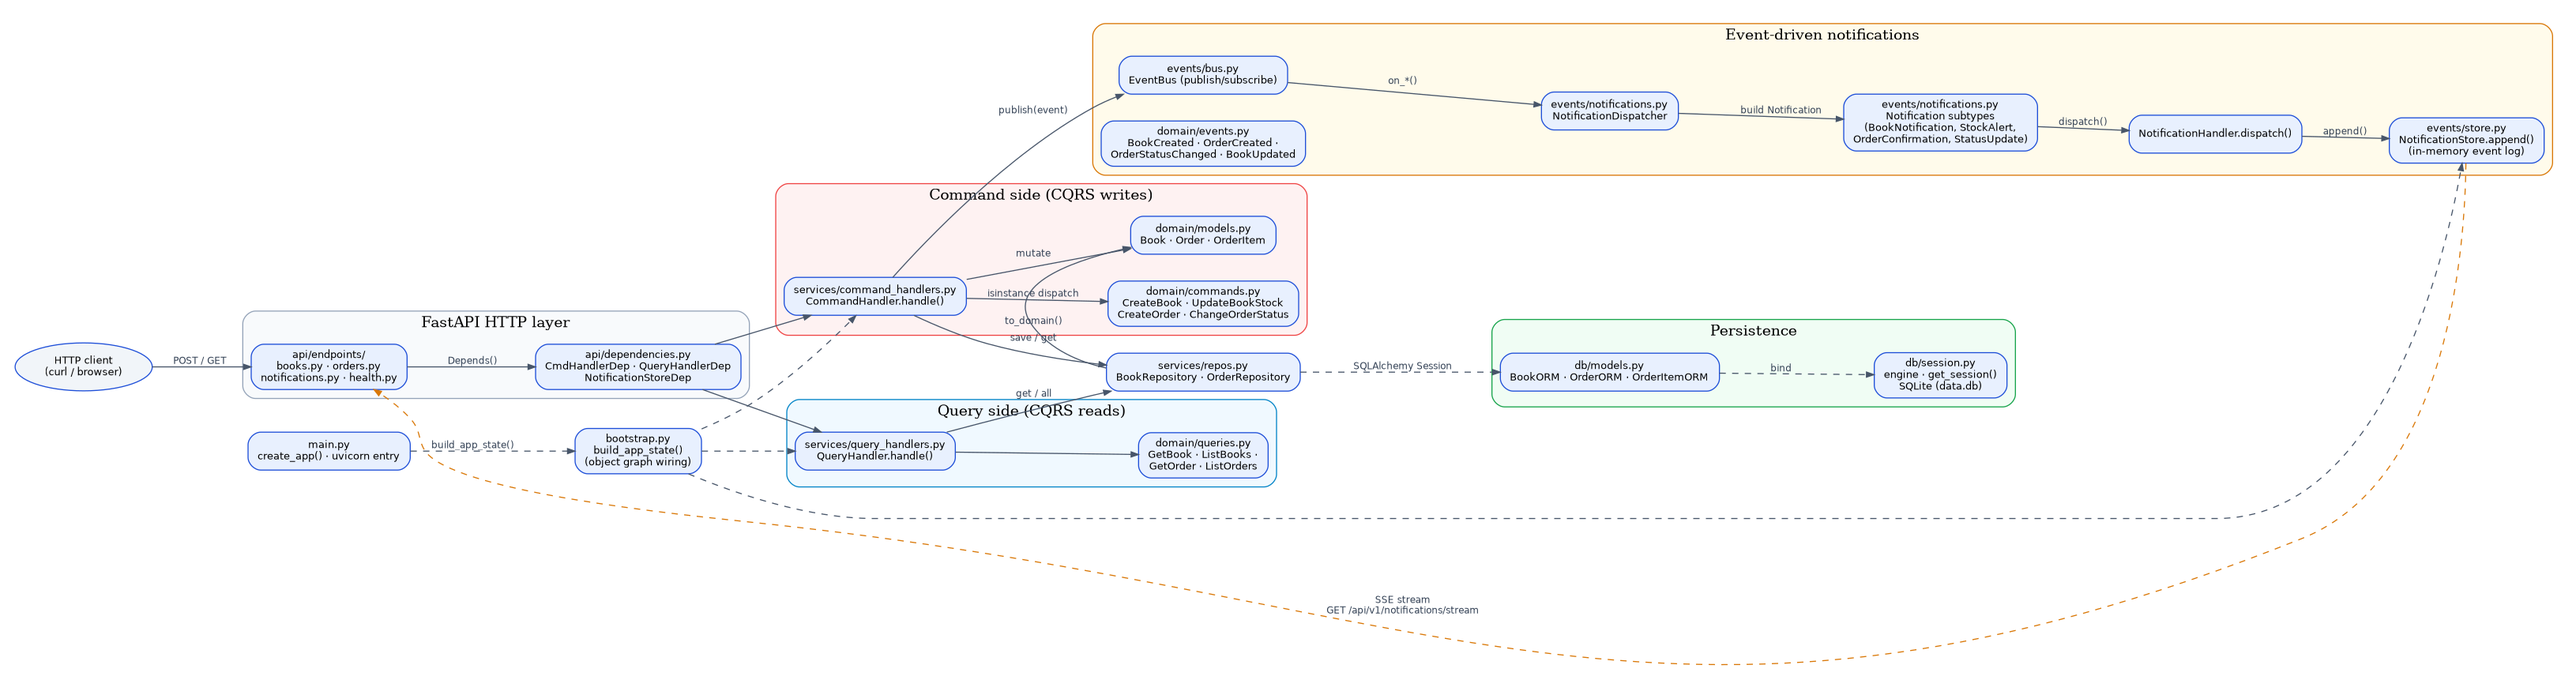
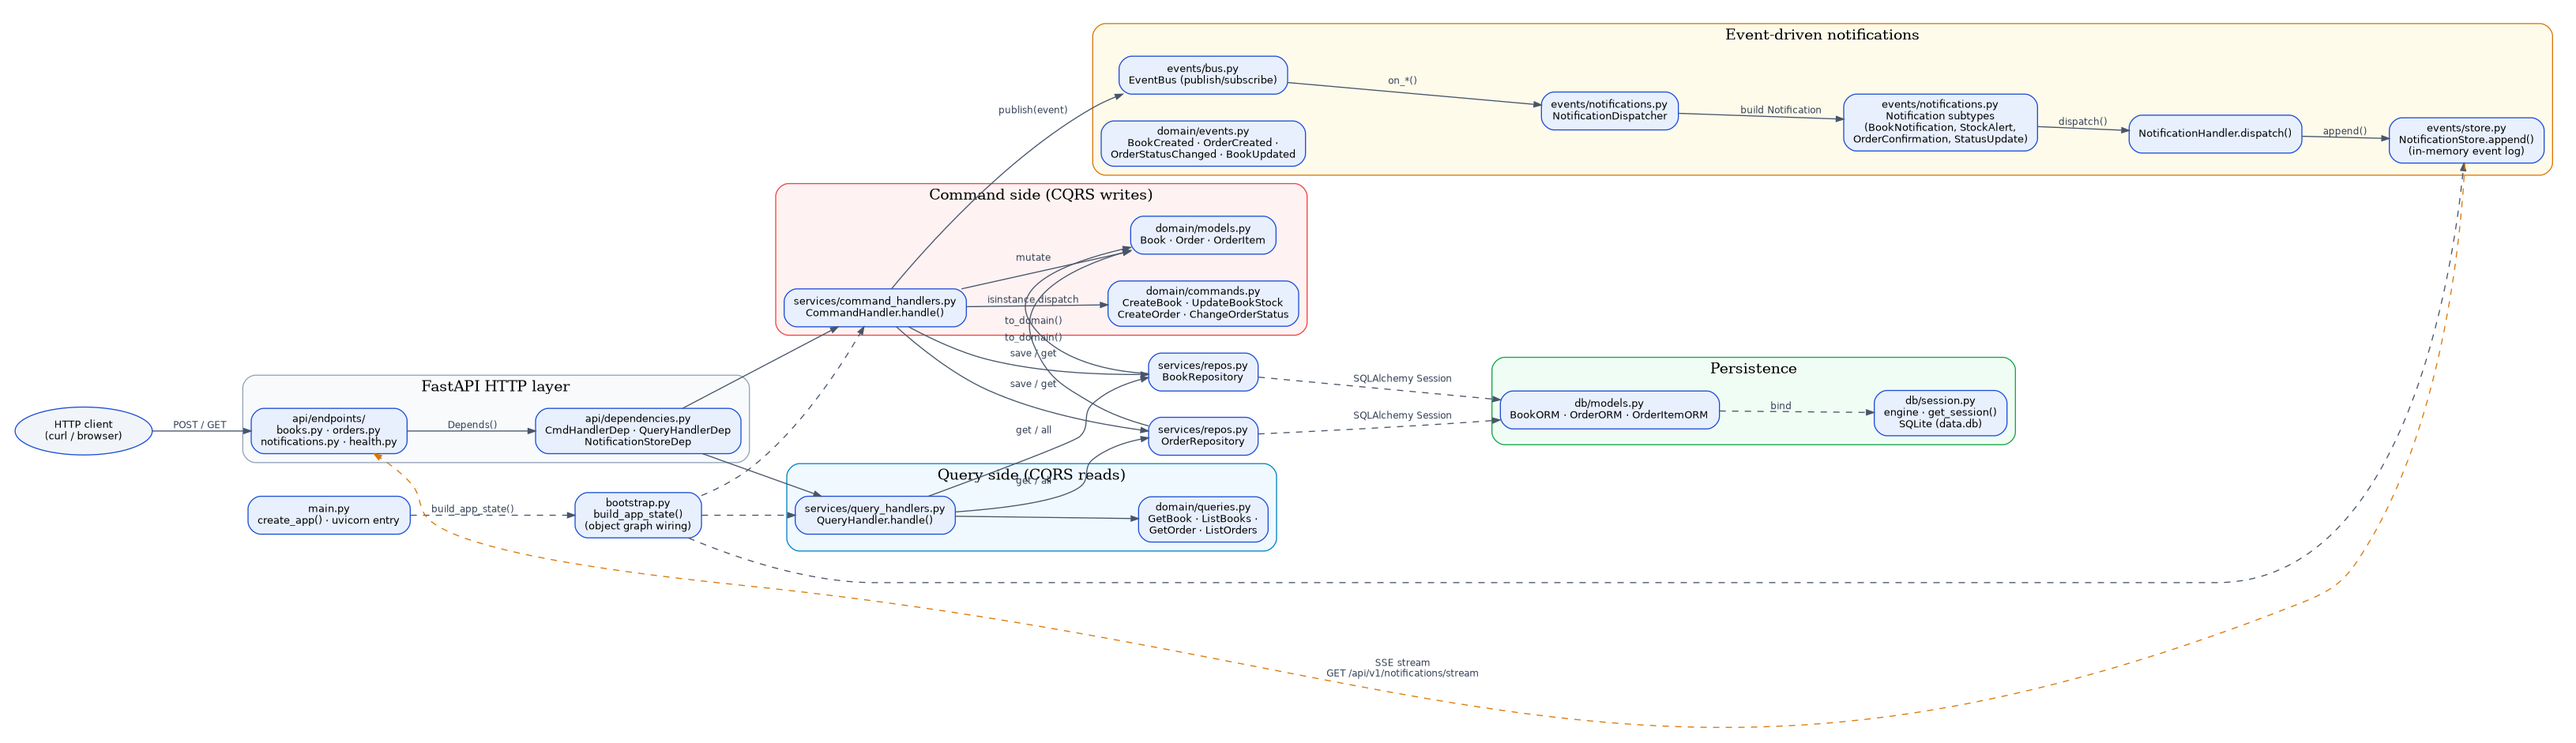
fix(diagrams): split OrderRepository into its own node in control-flow diagram
BookRepository and OrderRepository were bundled into a single combined
Repos node, making OrderRepository not visually reachable. Split them
into separate nodes with their own edges in both the Mermaid source
(diagrams/control-flow.mmd) and the DOT source (diagrams/control-flow.dot),
regenerate the PNG, and sync the README via make readme.

diff --git a/README.md b/README.md
@@ -439,8 +439,10 @@ CommandHandler.handle()"]:::command
 Book · Order · OrderItem"]:::command
     end
 
-    Repos["services/repos.py
-BookRepository · OrderRepository"]
+    BookRepo["services/repos.py
+BookRepository"]
+    OrderRepo["services/repos.py
+OrderRepository"]
 
     subgraph Persist ["Persistence"]
         ORM["db/models.py
@@ -480,8 +482,10 @@ QueryHandler.handle()"]:::query
 
     CmdHandler -->|isinstance dispatch| Commands
     CmdHandler -->|mutate| Aggregates
-    CmdHandler -->|save / get| Repos
-    Repos -->|SQLAlchemy Session| ORM
+    CmdHandler -->|save / get| BookRepo
+    CmdHandler -->|save / get| OrderRepo
+    BookRepo -->|SQLAlchemy Session| ORM
+    OrderRepo -->|SQLAlchemy Session| ORM
     ORM -->|bind| Session
 
     CmdHandler -->|publish| Bus
@@ -491,8 +495,10 @@ QueryHandler.handle()"]:::query
     Handler -->|append| Store
 
     QH --> Queries
-    QH -->|get / all| Repos
-    Repos -->|to_domain| Aggregates
+    QH -->|get / all| BookRepo
+    QH -->|get / all| OrderRepo
+    BookRepo -->|to_domain| Aggregates
+    OrderRepo -->|to_domain| Aggregates
 
     Store -.->|SSE stream: GET /api/v1/notifications/stream| Endpoints
 ```
